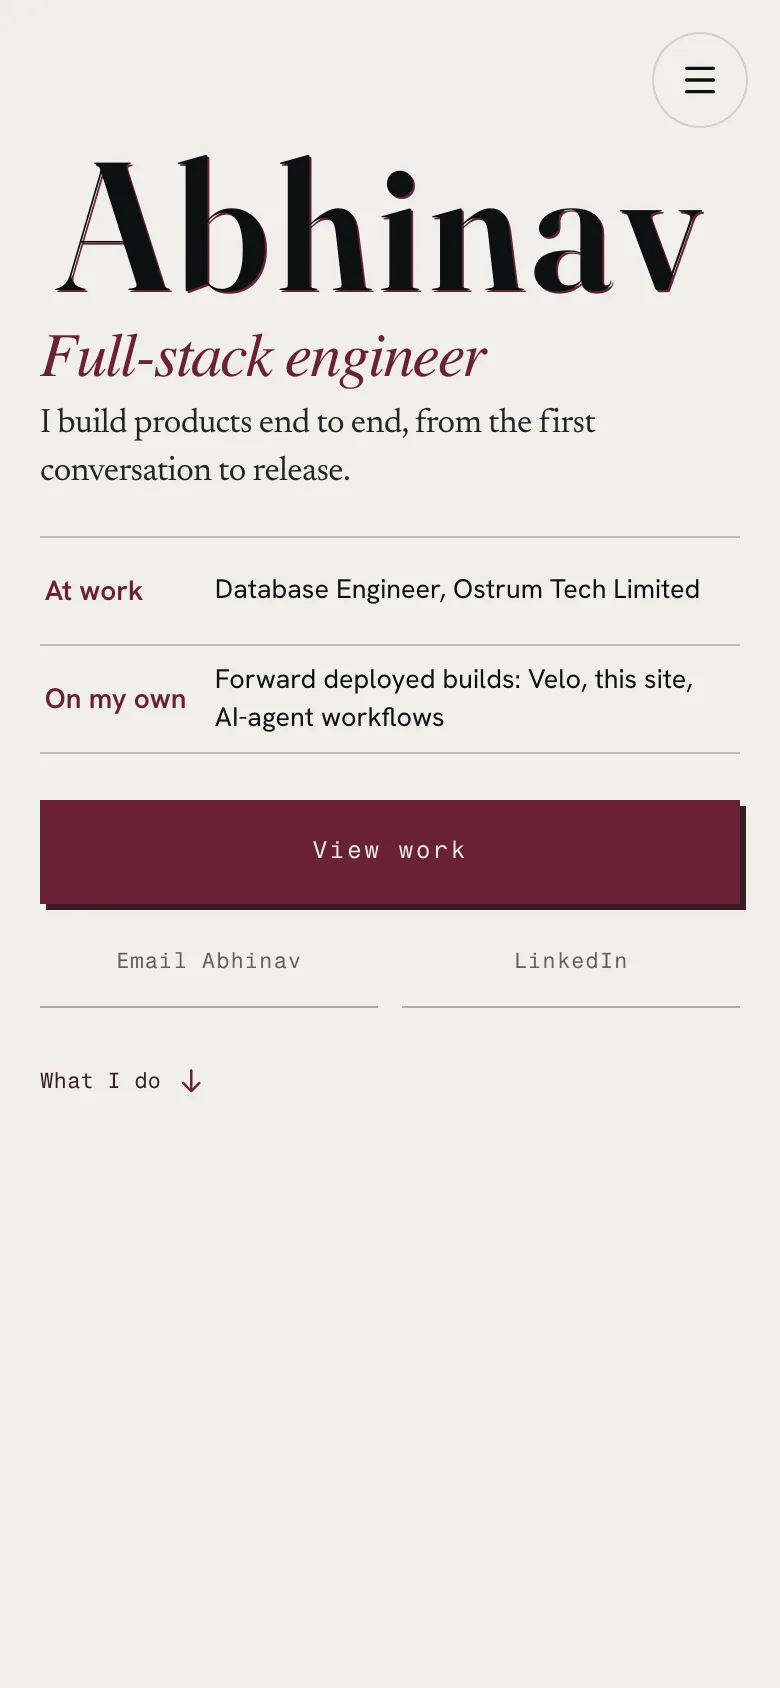
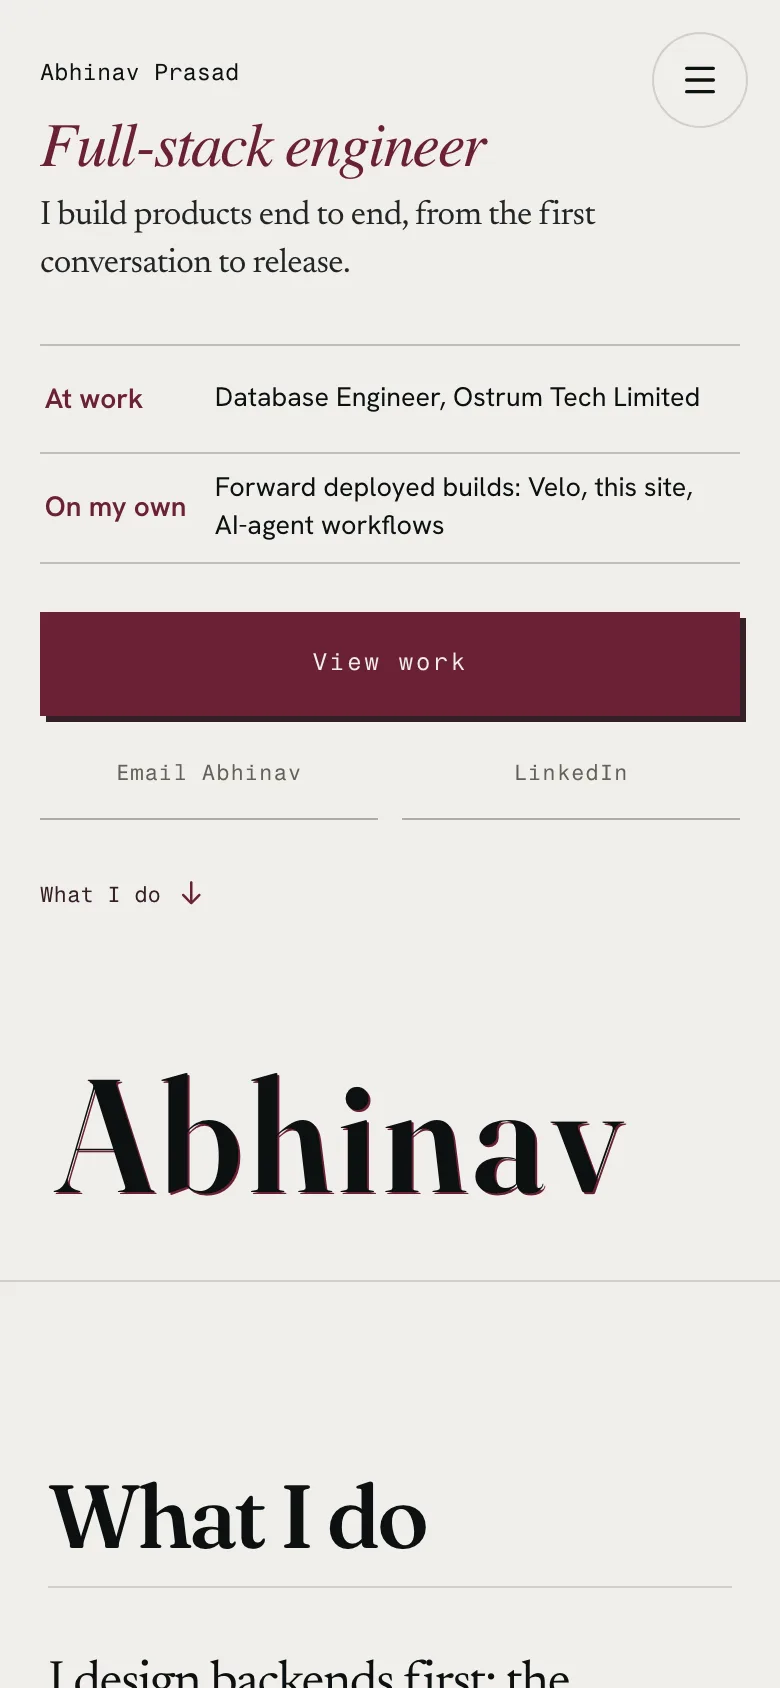
content(cases): recapture share images and gallery from the final build; phone hero capped at 40rem

diff --git a/src/components/landing/LandingFrame1Hero.module.css b/src/components/landing/LandingFrame1Hero.module.css
@@ -88,15 +88,17 @@
 }
 
 @media (max-width: 767px) {
+  /* Phones fill the first screen up to 40rem: short phones keep the whole
+     composition on screen, tall phones no longer leave a blank band between
+     the cue and the bottom wordmark. */
   .frame {
-    min-height: 100vh;
-    min-height: 100svh;
+    min-height: min(100svh, 40rem);
     padding: 0.85rem 1.25rem 1.25rem;
   }
 
   .content {
     display: flex;
-    min-height: calc(100svh - 2.1rem);
+    min-height: calc(min(100svh, 40rem) - 2.1rem);
   }
 
   .masthead {
